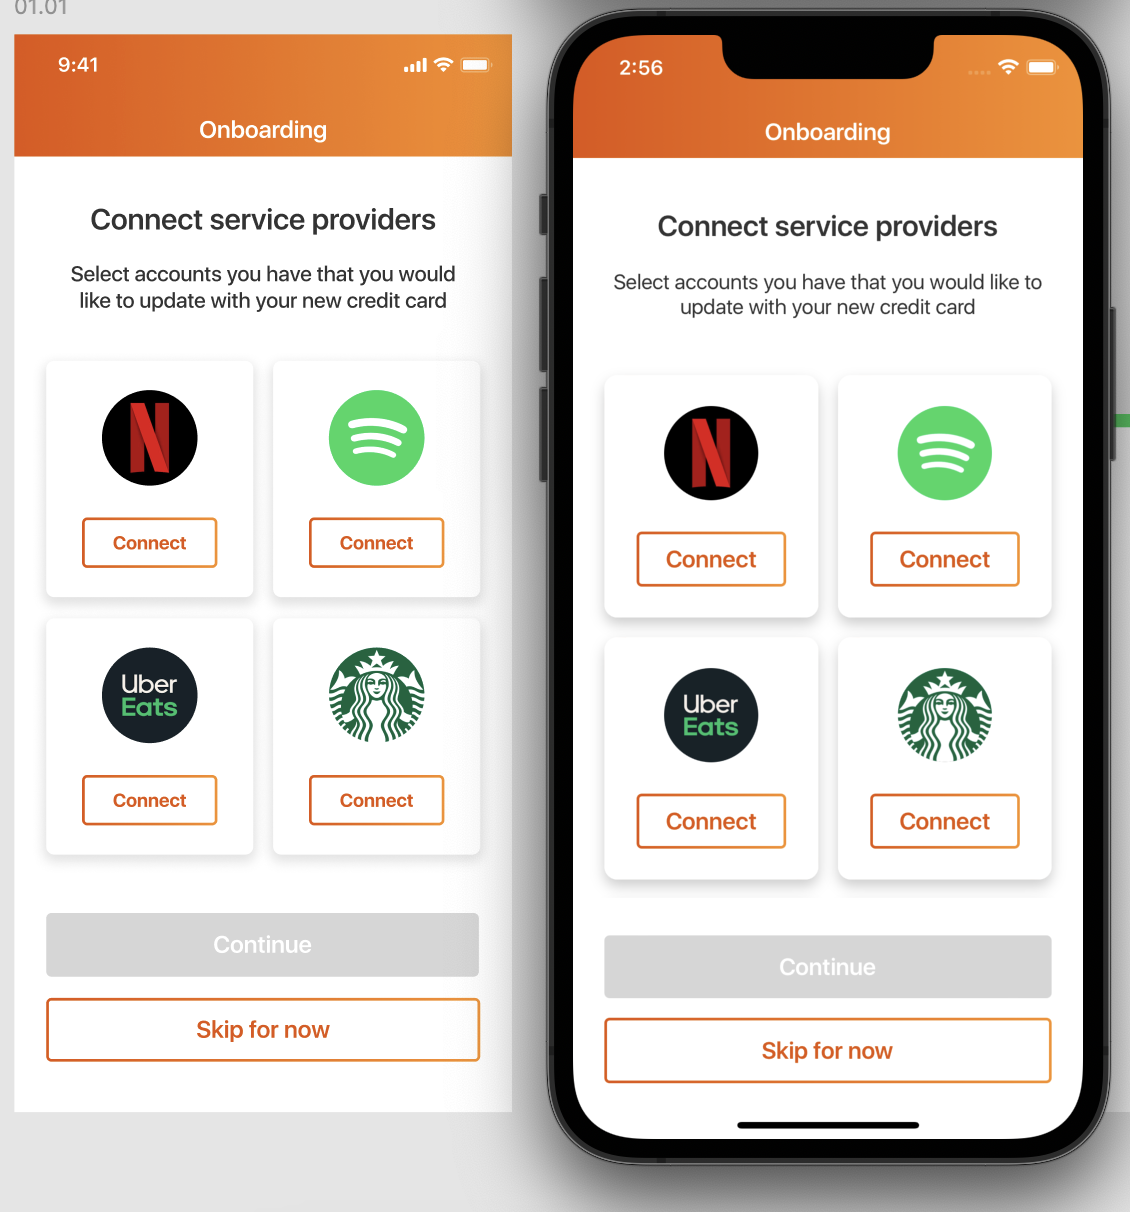
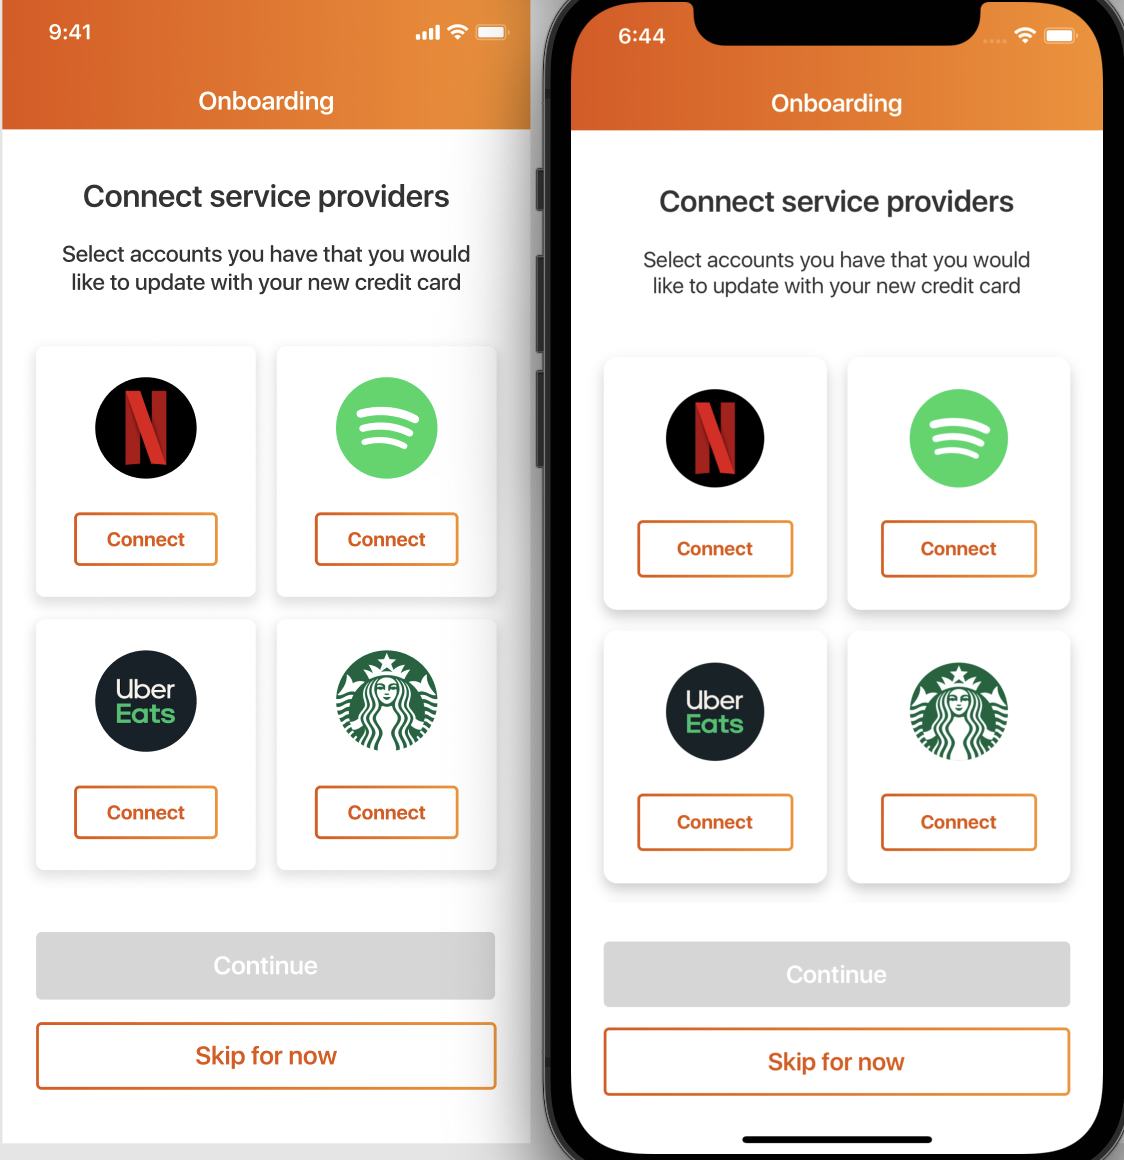
Final minor fixes

diff --git a/src/atomic/theme/common.theme.ts b/src/atomic/theme/common.theme.ts
@@ -84,6 +84,16 @@ const texts = {
     color: BrandColors.Primary,
     fontSize: 18,
   },
+  buttonCard: {
+    fontFamily: FontFamilys.Bold,
+    color: BrandColors.Background,
+    fontSize: 14,
+  },
+  buttonSecondaryCard: {
+    fontFamily: FontFamilys.Bold,
+    color: BrandColors.Primary,
+    fontSize: 14,
+  },
 };
 
 const buttons = {
@@ -115,6 +125,20 @@ const buttons = {
       gradientColors,
       button: {height: 46},
       text: {...texts.buttonSecondary, fontSize: 18},
+    },
+    primaryCard: {
+      type: 'gradient',
+      variant: 'primary',
+      gradientColors,
+      button: {height: 38},
+      text: texts.buttonCard,
+    },
+    secondaryCard: {
+      type: 'gradient',
+      variant: 'secondary',
+      gradientColors,
+      button: {height: 38},
+      text: texts.buttonSecondaryCard,
     },
   },
   alter: {

diff --git a/src/atomic/molecules/selectionCard/selectionCard.component.tsx b/src/atomic/molecules/selectionCard/selectionCard.component.tsx
@@ -42,8 +42,8 @@ export const SelectionCard = ({
             onPress={onPress}
             variantStyles={
               isSelected
-                ? variantStyles.buttons.main.primary
-                : variantStyles.buttons.main.secondary
+                ? variantStyles.buttons.main.primaryCard
+                : variantStyles.buttons.main.secondaryCard
             }
             customStyles={[styles.button, isSelected && styles.selectedButton]}
             text={isSelected ? 'Connected' : 'Connect'}

diff --git a/src/app/scenes/onboarding/screens/onboarding.screen.style.tsx b/src/app/scenes/onboarding/screens/onboarding.screen.style.tsx
@@ -14,6 +14,7 @@ const styles = StyleSheet.create({
   },
   descriptionTitle: {
     textAlign: 'center',
+    paddingHorizontal: 20,
   },
 
   // Services Section
